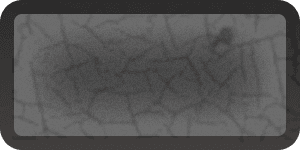
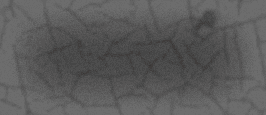
Web design refreshed.

diff --git a/index.html b/index.html
@@ -9,17 +9,11 @@
 			background-image: url('assets/images/button_stone_small.png');
 			background-size: cover;
 		}
-        
-        .header {
-			background-image: url('assets/images/header.jpg');
-			background-size: repeat;
-            background-size: 25%;
-		}
-        
+
 	</style>
 </head>
-<body class="bg-black">
-	<header class="header flex justify-between items-center bg-gray-300 py-4 px-8">
+<body class="bg-gray-200">
+	<header class="header flex justify-between items-center bg-gray-300 py-4 px-8 lg:pl-64 lg:pr-64">
 		<div class="flex items-center">
 			<img src="assets/images/logo_artwork_letters.png" alt="Logo" class="h-24">
 		</div>
